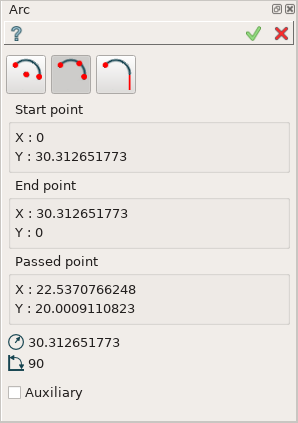
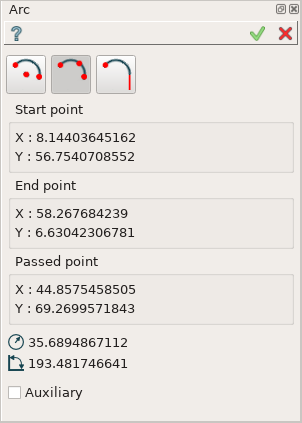
Sketch objects help pages (update).

diff --git a/src/SketchPlugin/doc/examples/arc.py b/src/SketchPlugin/doc/examples/arc.py
@@ -1,0 +1,16 @@
+# -*- coding: utf-8 -*-
+
+from salome.shaper import model
+
+model.begin()
+partSet = model.moduleDocument()
+Part_1 = model.addPart(partSet)
+Part_1_doc = Part_1.document()
+Sketch_1 = model.addSketch(Part_1_doc, model.standardPlane("XOY"))
+SketchArc_1 = Sketch_1.addArc(6.0, 6.2, 5.2, 34.3, 34.0, 7.7, True)
+SketchArc_2 = Sketch_1.addArc(8.1, 56.7, 58.2, 6.6, 44.8, 69.2)
+SketchLine_3 = Sketch_1.addLine(25.0, 109.4, 68.1, 153.6)
+SketchLine_3.setAuxiliary(True)
+SketchArc_3 = Sketch_1.addArc(SketchLine_3.startPoint(), 92.1, 34.0, True)
+model.do()
+model.end()

diff --git a/src/SketchPlugin/doc/examples/circle.py b/src/SketchPlugin/doc/examples/circle.py
@@ -7,6 +7,7 @@ partSet = model.moduleDocument()
 Part_1 = model.addPart(partSet)
 Part_1_doc = Part_1.document()
 Sketch_1 = model.addSketch(Part_1_doc, model.defaultPlane("XOY"))
-Rectangle_1 = Sketch_1.addRectangle(5.5, 8.5, 31.3, 78.9)
+SketchCircle_1 = Sketch_1.addCircle(38.6, 47.5, 31.5)
+SketchCircle_2 = Sketch_1.addCircle(0.0, 14.1, 15.0, 0.1, 17.2, 19.9)
 model.do()
 model.end()

diff --git a/src/SketchPlugin/doc/examples/line.py b/src/SketchPlugin/doc/examples/line.py
@@ -7,6 +7,6 @@ partSet = model.moduleDocument()
 Part_1 = model.addPart(partSet)
 Part_1_doc = Part_1.document()
 Sketch_1 = model.addSketch(Part_1_doc, model.defaultPlane("XOY"))
-SketchLine_1 = Sketch_1.addLine(64.50309529234383, 87.92795791556755, -33.49721981216553, -42.5840914148601)
+SketchLine_1 = Sketch_1.addLine(64.5, 87.9, -33.4, -42.6)
 model.do()
 model.end()

diff --git a/src/SketchPlugin/doc/examples/point.py b/src/SketchPlugin/doc/examples/point.py
@@ -7,6 +7,6 @@ partSet = model.moduleDocument()
 Part_1 = model.addPart(partSet)
 Part_1_doc = Part_1.document()
 Sketch_1 = model.addSketch(Part_1_doc, model.defaultPlane("XOY"))
-SketchPoint_1 = Sketch_1.addPoint(42.64092753227449, 19.02972704799864)
+SketchPoint_1 = Sketch_1.addPoint(42.6, 19.0)
 model.do()
 model.end()

diff --git a/src/SketchPlugin/doc/arcFeature.rst b/src/SketchPlugin/doc/arcFeature.rst
@@ -27,7 +27,7 @@ There are 3 algorithms for creation of an Arc:
 
 .. image:: images/arc_tang_32x32.png
    :align: left
-**By tangent and point** creates an arc segment with the tangent point and the end point.
+**By tangent point and end point** creates an arc segment with the tangent point and the end point.
 
 By center and two points
 """"""""""""""""""""""""
@@ -35,9 +35,14 @@ By center and two points
 .. image:: images/Arc_panel_base.png
    :align: center
 
+Click in the view once to set the center point, then move the mouse and click a second time to set the start point
+and finally move the mouse and click a third time to set the last passed point.
 
+- When entering a center or start point by selecting either a point or a segment, a Coincident constraint is created.
+- When entering an end point by selecting a segment, a Coincident constraint is created.
+- When entering an end point, only segments are selectable.
 
-**TUI Command**:  *Sketch_1.addCircle(CenterX, CenterY, StartX, StartY, EndX, EndY, Inversed)*
+**TUI Command**:  *Sketch_1.addArc(CenterX, CenterY, StartX, StartY, EndX, EndY, Inversed)*
 
 **Arguments**:    7 values (coordinates of the center, the start, the end, inversed flag (if true - build arc from end to start)).
 
@@ -47,16 +52,43 @@ By three points
 .. image:: images/Arc_panel_3pt.png
    :align: center
 
-**TUI Command**:  *Sketch_1.addCircle(StartX, StartY, EndX, EndY, PassedX, PassedY)*
+Click in the view once to set the start point, then move the mouse and click a second time to set the end point
+and finally move the mouse and click a third time to set the passed point.
+
+- When entering a start or end point by selecting either a point or a segment, a Coincident constraint is created.
+- When entering a passing point by selecting a point, a Coincident constraint is created.
+- When entering a passing point by selecting a segment, a Tangent constraint is created.
+
+**TUI Command**:  *Sketch_1.addArc(StartX, StartY, EndX, EndY, PassedX, PassedY)*
 
 **Arguments**:    6 values (coordinates of the start, end and passed points).
 
-By tangent and point
-""""""""""""""""""""
+By tangent point and point
+""""""""""""""""""""""""""
 
 .. image:: images/Arc_panel_tang.png
    :align: center
 
-**TUI Command**:  *Sketch_1.addCircle(TangetPoint, EndX, EndY, Inversed)*
+Select point on segement in the view to set the tangent point, then move the mouse and click to set the end point.
+Tangent point by itself is a start point. The edge on which it lies will be tangent to the arc.
+
+- When entering a tangent point by selecting a point on segment, a Tangent constraint is created.
+- When entering an end point by selecting a segment, a Coincident constraint is created.
+- When entering an end point, only segments are selectable.
+
+**TUI Command**:  *Sketch_1.addArc(TangetPoint, EndX, EndY, Inversed)*
 
 **Arguments**:    4 values (reference to tangent point, coordinates of end point, inversed flag (if true - build arc from end to start)).
+
+Result
+""""""
+
+Created arc appears in the view.
+
+.. image:: images/Arc_res.png
+	   :align: center
+
+.. centered::
+   Circle created
+
+**See Also** a sample TUI Script of a :ref:`tui_create_arc` operation.

diff --git a/src/SketchPlugin/doc/SketchPlugin.rst b/src/SketchPlugin/doc/SketchPlugin.rst
@@ -8,10 +8,11 @@ Sketch plug-in
 Sketch plug-in includes features for creation of 2D shapes.
 
 The process of sketch creation is comprised of:
+
 - definition of sketch plane
 - creation of sketch objects from scratch
 - generation of sketch objects via operations on the existing operations
-- definition of constaints
+- definition of constraints
 
 Sketch could be created both in active part and a part set (if there is no active part).
 
@@ -26,7 +27,7 @@ To create a Sketch:
 .. centered::
    **Sketch**  button
 
-At first it is necessary to define a plane on which to create a sketch:
+First define a plane on which to create a sketch:
 
 .. image:: images/PlaneDefinition.png
    :align: center
@@ -54,8 +55,13 @@ After the plane for sketch is selected the following property panel will be open
 - **Show dimensional constraints** check box - turns on/off dimensional constraints displaying
 - **Show existing expressions** check box - turns on/off expressions displaying
 
-Now it is possible to create sketch objects, make sketch operations and constraints.
-To apply or cancel sketch creation it is possible to use apply and cancel buttons from the
+Now it is possible:
+
+- create :ref:`sketch objects <sketch_objects>`
+- create :ref:`constraints <sketch_constraints>`
+- perform :ref:`sketch operations <sketch_operations>`
+
+To apply or cancel sketch creation use apply and cancel buttons from the
 Sketch panel as well as equivalent buttons from Sketch toolbar.
 
 The Result of operation will be a COMPOUND. Result node in the object tree is located in
@@ -66,6 +72,8 @@ Name is assigned automatically: **Sketch_1**, **Sketch_2**, ... both for Feature
 **TUI Command**:  *Sketch_1 = model.addSketch(PartOrPartSet, plane)*
 
 **Arguments**:    Part or PartSet + plane.
+
+.. _sketch_objects:
 
 Sketch objects
 --------------
@@ -80,6 +88,8 @@ The plug-in includes following features for creation of 2D objects:
    rectangleFeature.rst
    circleFeature.rst
    arcFeature.rst
+
+.. _sketch_constraints:
 
 Constraints
 -----------
@@ -105,6 +115,8 @@ Constraints
    tangentFeature.rst
    verticalDistFeature.rst
    verticalFeature.rst
+
+.. _sketch_operations:
 
 Operations
 ----------

diff --git a/src/SketchPlugin/doc/circleFeature.rst b/src/SketchPlugin/doc/circleFeature.rst
@@ -33,6 +33,10 @@ By center and passed point
 
 Click in the view once to set the center point, then move the mouse and click a second time to set the passed point.
 
+- When entering a center point by selecting either a point or a segment, a Coincident constraint is created.
+- When entering a passing point by selecting a point, a Coincident constraint is also created.
+- When entering a passing point by selecting a segment, a Tangent constraint is created.
+
 **TUI Command**:  *Sketch_1.addCircle(CenterX, CenterY, PassedX, PassedY)*
 
 **Arguments**:    4 values (coordinates of the center and the passed point).
@@ -46,6 +50,37 @@ By three points
 Click in the view once to set the first passed point, then move the mouse and click a second time to set the second passed point
 and finally move the mouse and click a third time to set the last passed point.
 
+- When entering a passing point by selecting a point, a Coincident constraint is created.
+- When entering a passing point by selecting a segment, a Tangent constraint is created.
+
 **TUI Command**:  *Sketch_1.addCircle(X1, Y1, X2, Y2, X3, Y3)*
 
 **Arguments**:    6 values (coordinates of three points).
+
+Property panel in edition context
+"""""""""""""""""""""""""""""""""
+
+The following property panel appears when the user selects an existing circle.
+
+.. image:: images/Circle_panel_edit.png
+   :align: center
+
+Note that the edition property panel doesn't show the creation algorithm used.
+
+The panel shows:
+
+- center coordinates and radius (read-only).
+- auxiliary flag (could be modified).
+
+Result
+""""""
+
+Created circle appears in the view.
+
+.. image:: images/Circle_res.png
+	   :align: center
+
+.. centered::
+   Circle created
+
+**See Also** a sample TUI Script of a :ref:`tui_create_circle` operation.

diff --git a/src/SketchPlugin/doc/TUI_circleFeature.rst b/src/SketchPlugin/doc/TUI_circleFeature.rst
@@ -1,0 +1,11 @@
+
+  .. _tui_create_circle:
+
+Create Skecth Circle
+====================
+
+.. literalinclude:: examples/circle.py
+    :linenos:
+    :language: python
+
+:download:`Download this script <examples/circle.py>`

diff --git a/src/SketchPlugin/doc/TUI_arcFeature.rst b/src/SketchPlugin/doc/TUI_arcFeature.rst
@@ -1,0 +1,11 @@
+
+  .. _tui_create_arc:
+
+Create Skecth Arc
+=================
+
+.. literalinclude:: examples/arc.py
+    :linenos:
+    :language: python
+
+:download:`Download this script <examples/arc.py>`

diff --git a/src/SketchPlugin/doc/rectangleFeature.rst b/src/SketchPlugin/doc/rectangleFeature.rst
@@ -40,8 +40,6 @@ Result
 
 Created rectangle appears in the view.
 
-Example is shown below.
-
 .. image:: images/Rectangle_res.png
 	   :align: center
 

diff --git a/src/SketchPlugin/doc/pointFeature.rst b/src/SketchPlugin/doc/pointFeature.rst
@@ -37,8 +37,6 @@ Result
 
 Created point appears in the view.
 
-Example is shown below.
-
 .. image:: images/Point_res.png
 	   :align: center
 

diff --git a/src/SketchPlugin/doc/lineFeature.rst b/src/SketchPlugin/doc/lineFeature.rst
@@ -37,8 +37,6 @@ Result
 
 Created line appears in the view.
 
-Example is shown below.
-
 .. image:: images/Line_res.png
 	   :align: center
 
